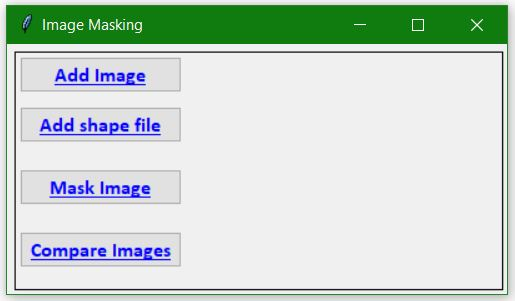
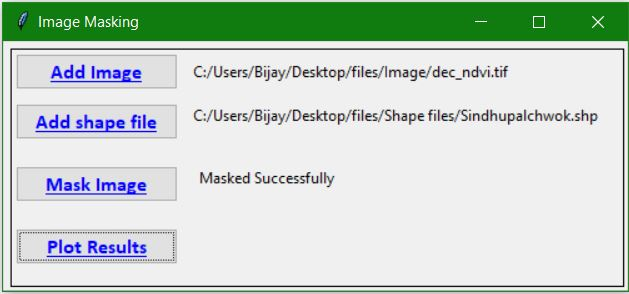
py file updated

Changed region(s): [[0.0, 0.0, 1.0, 1.0], [0.6835, 0.0612, 0.7146, 0.0918]]

diff --git a/ImageMasking.py b/ImageMasking.py
@@ -5,7 +5,7 @@ from tkinter.filedialog import askopenfilename, asksaveasfilename
 
   
 # This method will show image in any image view
-from functools import partial
+#from functools import partial
 import matplotlib
 import matplotlib.pyplot as plt
 
@@ -15,10 +15,12 @@ import rasterio.mask
 from rasterio.plot import show
 from descartes import PolygonPatch
 
-import numpy as np
 
-W,H = 450,200
+#import numpy as np
 
+W,H = 500,200
+
+global WINDOW
 WINDOW = Tk()
 WINDOW.geometry('+10+10') #window starting from 10,10
 WINDOW.geometry('{}x{}'.format(W,H)) #set the geomentry of WINDOW
@@ -65,6 +67,9 @@ def maskImage():
     with rasterio.open(saveFilePath, "w", **out_meta) as dest:
         dest.write(out_image)
 
+    
+    label2= Label(WINDOW, text ="Masked Successfully").place(x = 155, y = 100)
+
 
 def plotImages():
     image1=rasterio.open(tif_filePath) 
@@ -77,11 +82,12 @@ def plotImages():
     patches = [PolygonPatch(feature, edgecolor="red", facecolor="none", linewidth=2) for feature in features]
    
     
-    fig, (axr, axg) = plt.subplots(1,2, figsize=(21,7))
-    show((image1, 1), ax=axr, title='Unmasked imagery and shape file')
-    show((image2, 1), ax=axg, title='Masked Imagery')
+    fig, (axr, axg) = plt.subplots(1,2, figsize=(14,7))
+    show((image1, 1), ax=axr,cmap='Greens', title='Unmasked Imagery')
+    show((image2, 1), ax=axg,cmap='Greens',title='Masked Imagery')
     axr.add_collection(matplotlib.collections.PatchCollection(patches,match_original=True))
-    
+    axg.add_collection(matplotlib.collections.PatchCollection(patches,match_original=True))
+  
     plt.show()
     
 
@@ -98,7 +104,7 @@ shpButton.place(x=10,y=50)
 calculate_btn = Button(WINDOW,text='Mask Image',style='W.TButton',command=maskImage,state="DISABLED")
 calculate_btn.place(x=10,y=100)
 
-compare_btn = Button(WINDOW,text='Compare Images',style='W.TButton',command=plotImages, state="DISABLED")
+compare_btn = Button(WINDOW,text='Plot Results',style='W.TButton',command=plotImages, state="DISABLED")
 compare_btn.place(x=10,y=150)
 
 WINDOW.mainloop()

diff --git a/README.md b/README.md
@@ -11,6 +11,8 @@ At the first compilation of this program, user is directed to a user interface o
 This user guide helps you to use the buttons on the user interface shown above for producing the masked image  of your area of interest.
 1. <B>Add Image</B>: Press <B>Add Image</B> button to  add the georeferenced image file from your local directory.<br><br>
 2. <B>Add Shape file</B>: After pressing this button, you are directed to your local directories, where you shall choose the area of intrest(AOI) of your project  in ".shp format"<br><br>
-3. <B>Mask Image</B>: This button when pressed, masks the input image with AOI and saves the masked image to the user selected directory. <br><br>
-4. <B>Compare Image</B>:  Click this button to visualize the user input image, masking shapefile of AOI overlayed in it on the first subplot and the masked image in the next subplot area. A image of the plot is shown below:
+3. <B>Mask Image</B>: This button when pressed, masks the input image with AOI and saves the masked image to the user selected directory. <B>Masked Successfully</B> will be labelled to the right of this button after the task is completed. <B><br>
+4. <B>Plot Results</B>:  Click this button to visualize the user input image, masking shapefile of AOI overlayed on it, and the masked image in two subplot area. Snapshot of the plot is shown below:
+
+
 
